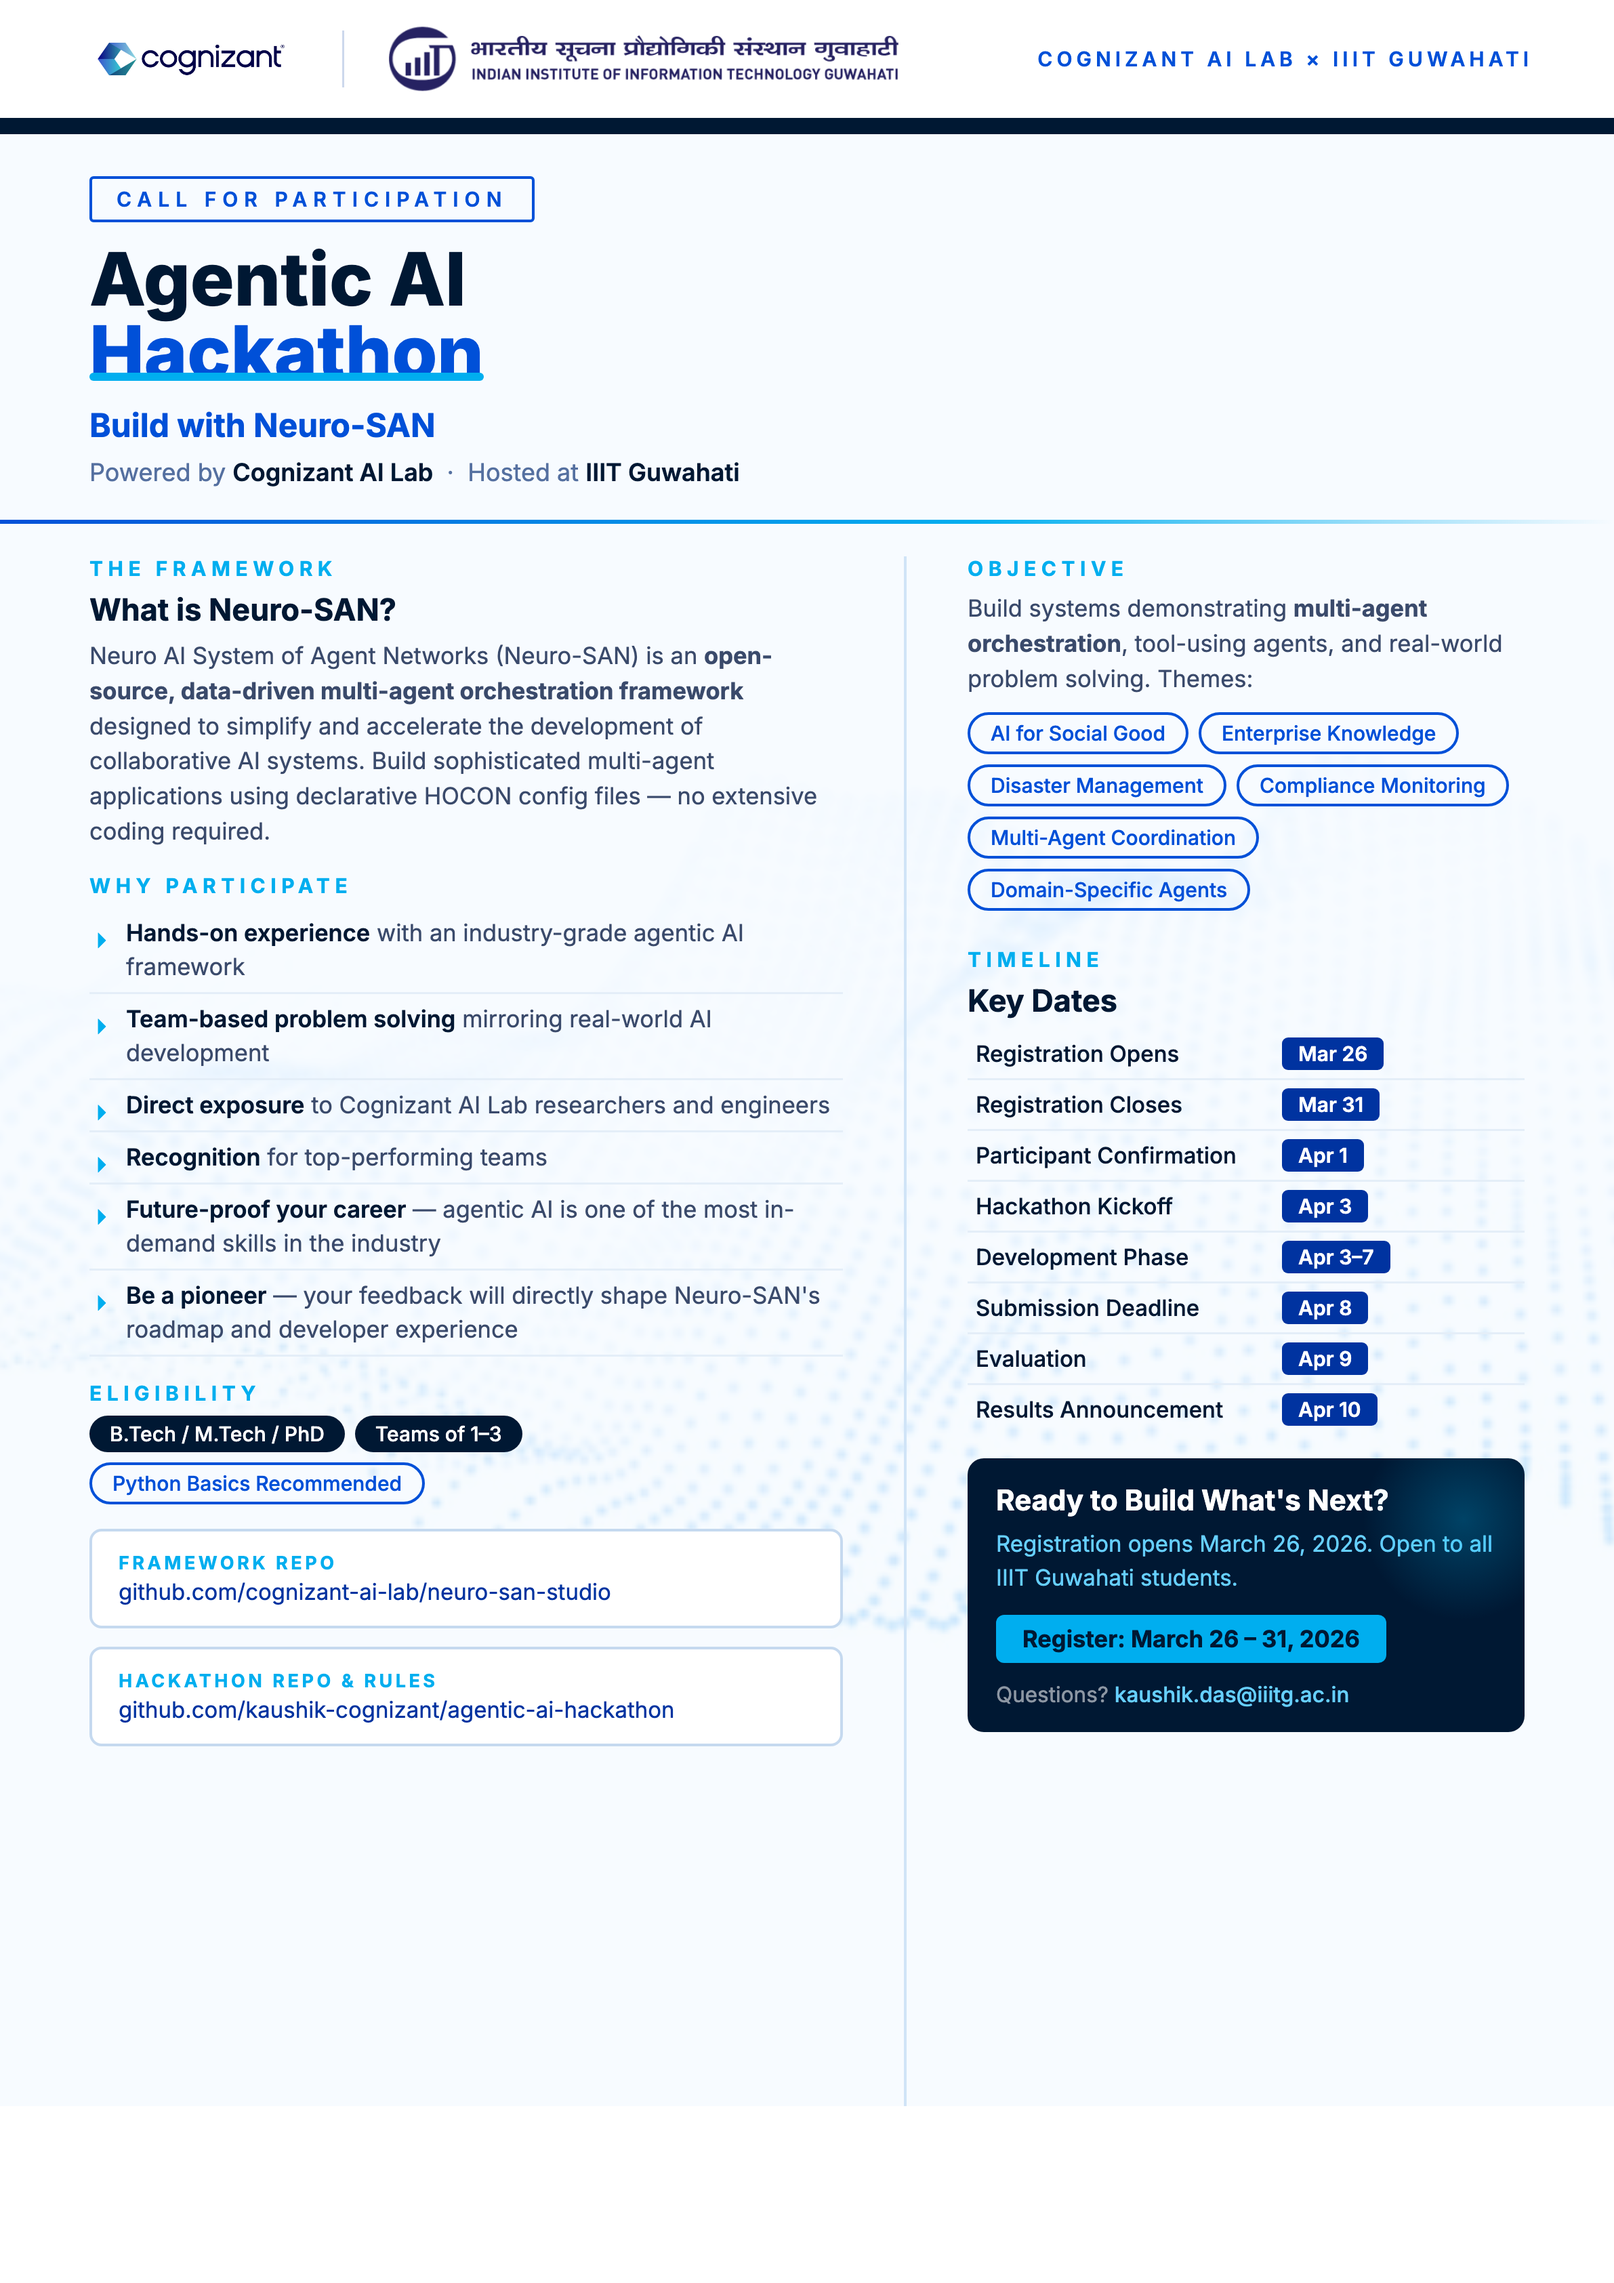
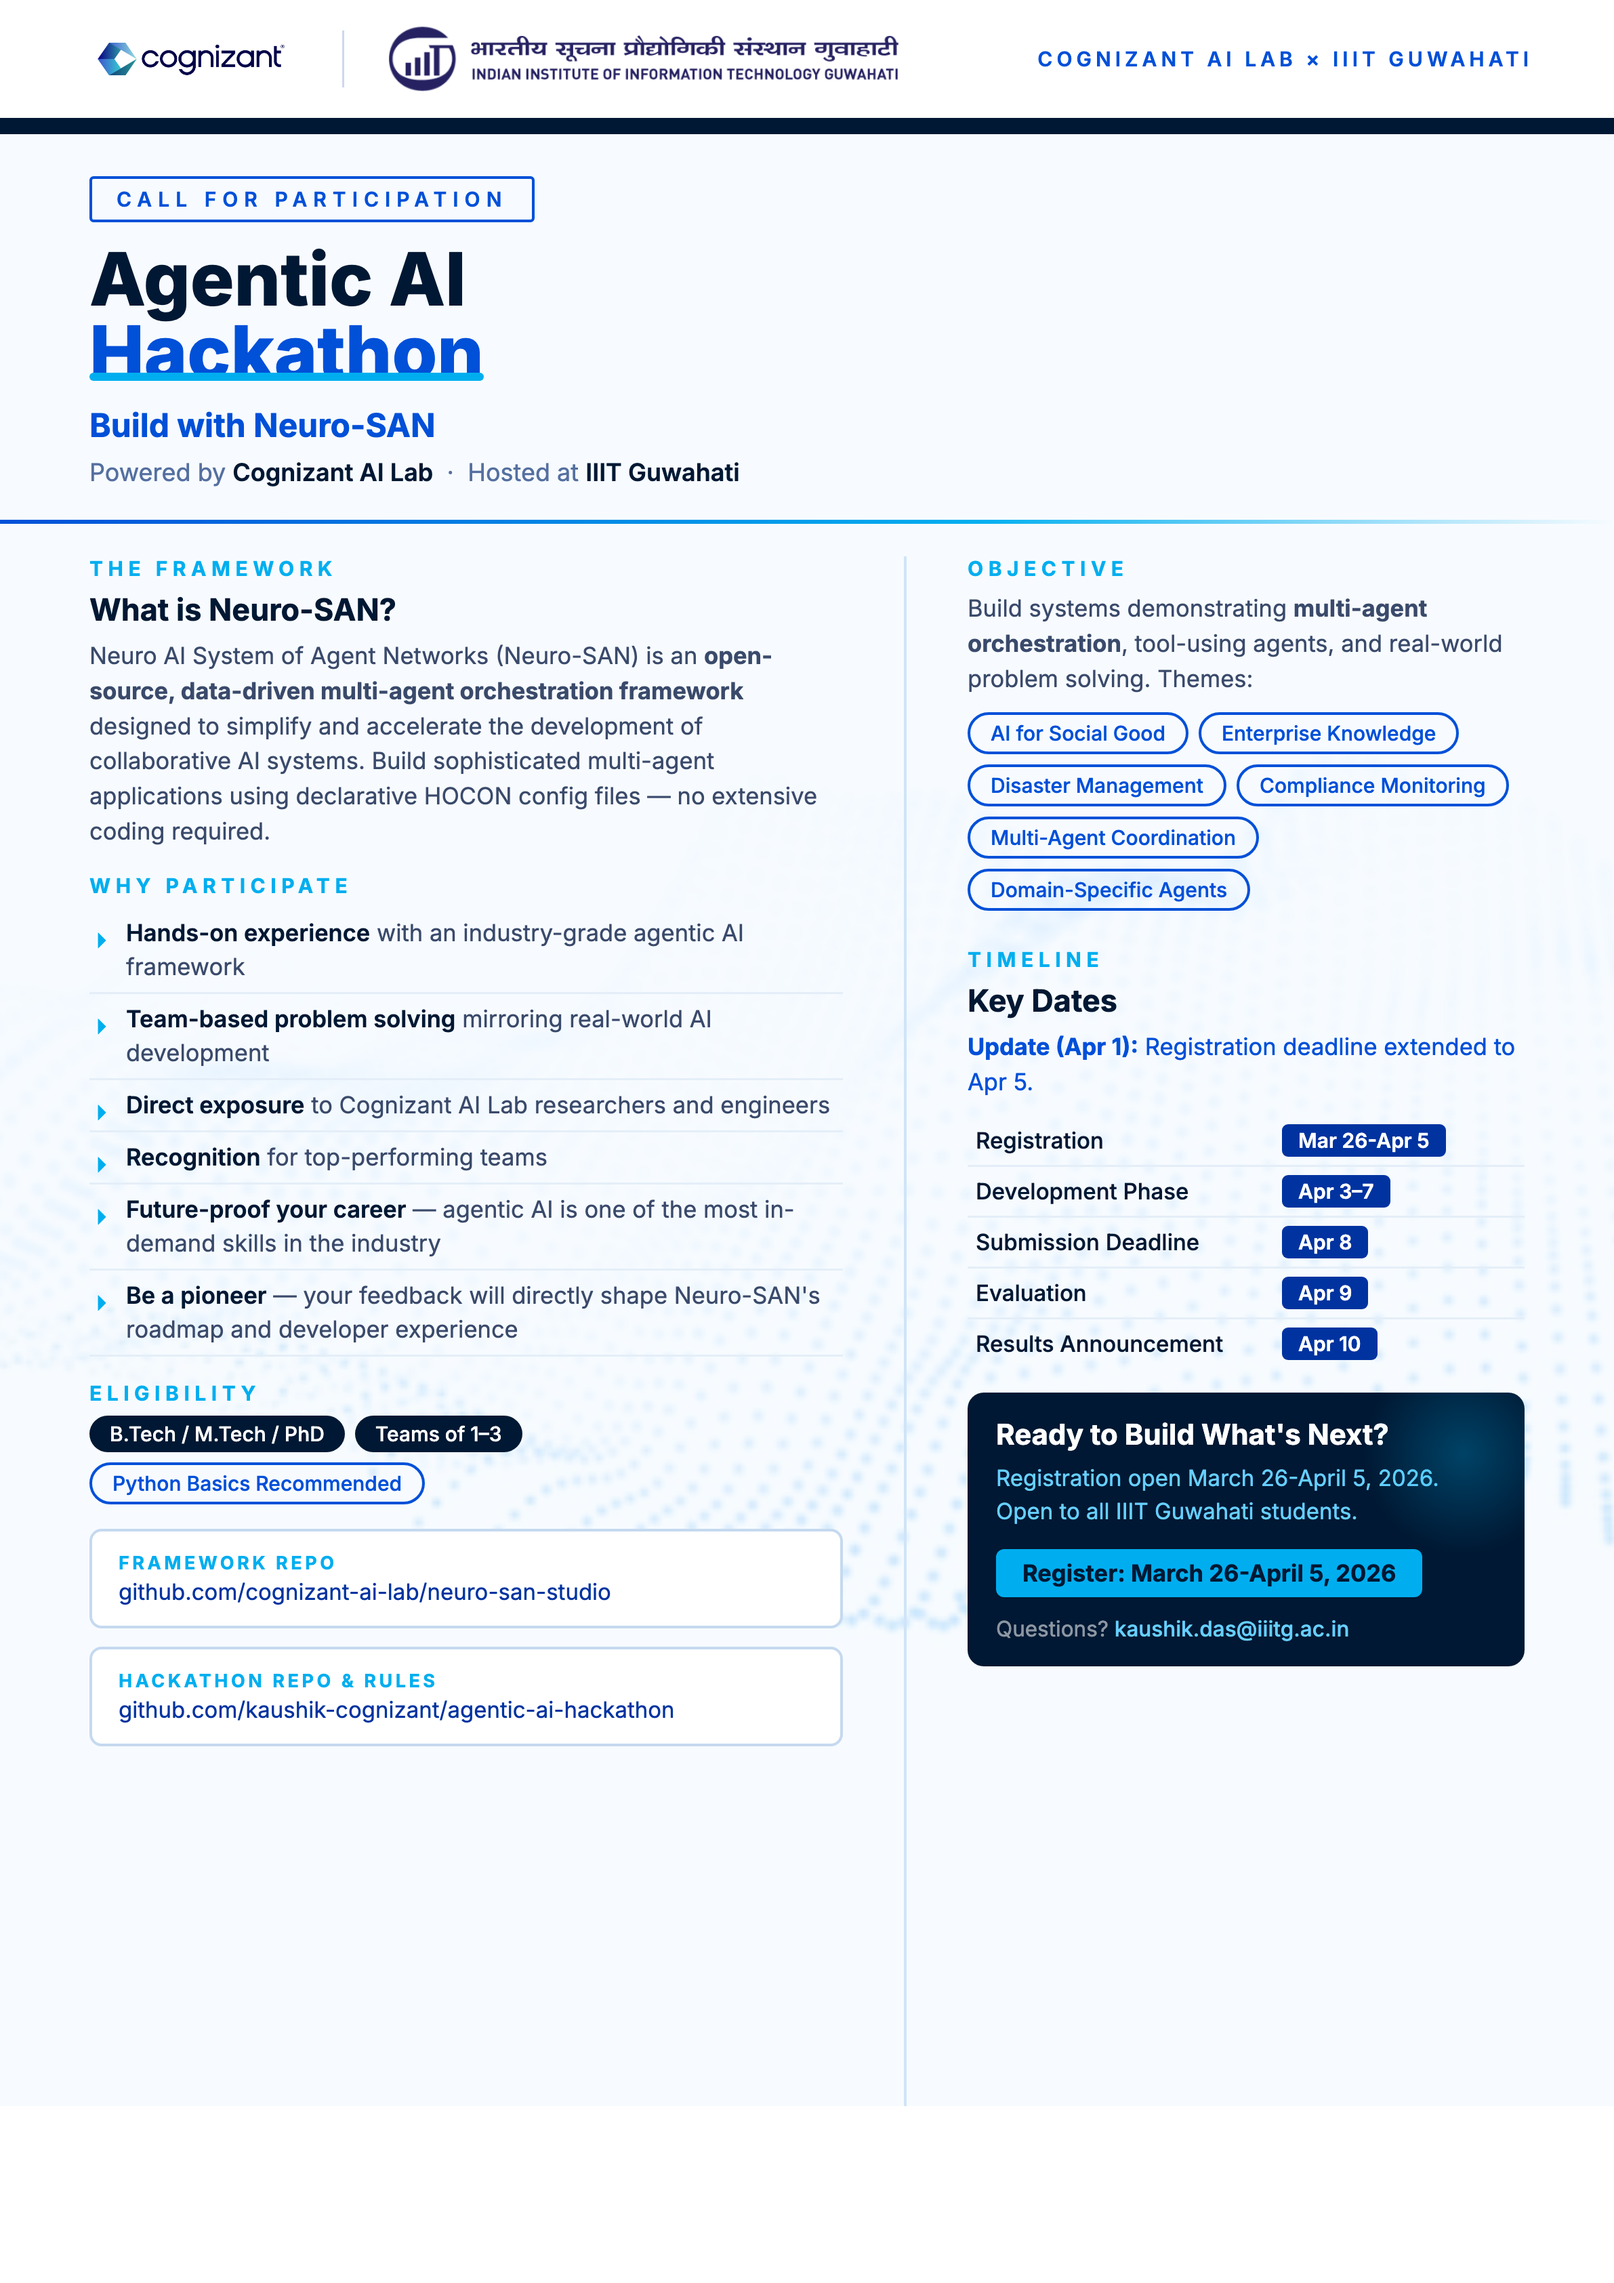
updated registration deadline

Changed region(s): [[0.5903, 0.4363, 0.9631, 0.7792]]

diff --git a/hackathon_materials/hackathon-poster.html b/hackathon_materials/hackathon-poster.html
@@ -148,11 +148,9 @@
 
       <div class="section-label">Timeline</div>
       <div class="section-heading">Key Dates</div>
+      <div class="body-text" style="margin-bottom:8px; color:#0050D8;"><strong>Update (Apr 1):</strong> Registration deadline extended to Apr 5.</div>
       <table class="timeline-table">
-        <tr><td>Registration Opens</td><td><span class="date-badge">Mar 26</span></td></tr>
-        <tr><td>Registration Closes</td><td><span class="date-badge">Mar 31</span></td></tr>
-        <tr><td>Participant Confirmation</td><td><span class="date-badge">Apr 1</span></td></tr>
-        <tr><td>Hackathon Kickoff</td><td><span class="date-badge">Apr 3</span></td></tr>
+        <tr><td>Registration</td><td><span class="date-badge">Mar 26-Apr 5</span></td></tr>
         <tr><td>Development Phase</td><td><span class="date-badge">Apr 3–7</span></td></tr>
         <tr><td>Submission Deadline</td><td><span class="date-badge">Apr 8</span></td></tr>
         <tr><td>Evaluation</td><td><span class="date-badge">Apr 9</span></td></tr>
@@ -161,8 +159,8 @@
 
       <div class="cta-box">
         <div class="cta-title">Ready to Build What's Next?</div>
-        <div class="cta-sub">Registration opens March 26, 2026. Open to all IIIT Guwahati students.</div>
-        <div class="cta-date">Register: March 26 – 31, 2026</div>
+        <div class="cta-sub">Registration open March 26-April 5, 2026. Open to all IIIT Guwahati students.</div>
+        <div class="cta-date">Register: March 26-April 5, 2026</div>
         <div class="contact-line">Questions? <span>kaushik.das@iiitg.ac.in</span></div>
       </div>
     </div>

diff --git a/call-for-participation.md b/call-for-participation.md
@@ -57,13 +57,14 @@ Projects may align with one of the following hackathon themes:
 
 | Phase | Date |
 |---|---|
-| Registration | March 26 – March 31, 2026 |
-| Participant Confirmation | April 1, 2026 |
-| Hackathon Kickoff | April 3, 2026 |
+| Registration | March 26 – April 5, 2026 |
 | Development Phase | April 3 – April 7, 2026 |
 | Project Submission Deadline | April 8, 2026 |
 | Evaluation | April 9, 2026 |
 | Results Announcement | April 10, 2026 |
+
+
+Update: April 1, Registration deadline extended. Feel free to register until the form is open.
 
 ---
 
@@ -81,7 +82,7 @@ More information will be available in the github repo: https://github.com/kaushi
 
 Please check the discussion board for the rules: https://github.com/kaushik-cognizant/agentic-ai-hackathon/discussions/1 
 
-Please reach in the discussion board or open an issue in the hackathon repo for more information.
+Please reach in the discussion board or open an issue in the hackathon repo for any queries or support.
 
 ---
 
